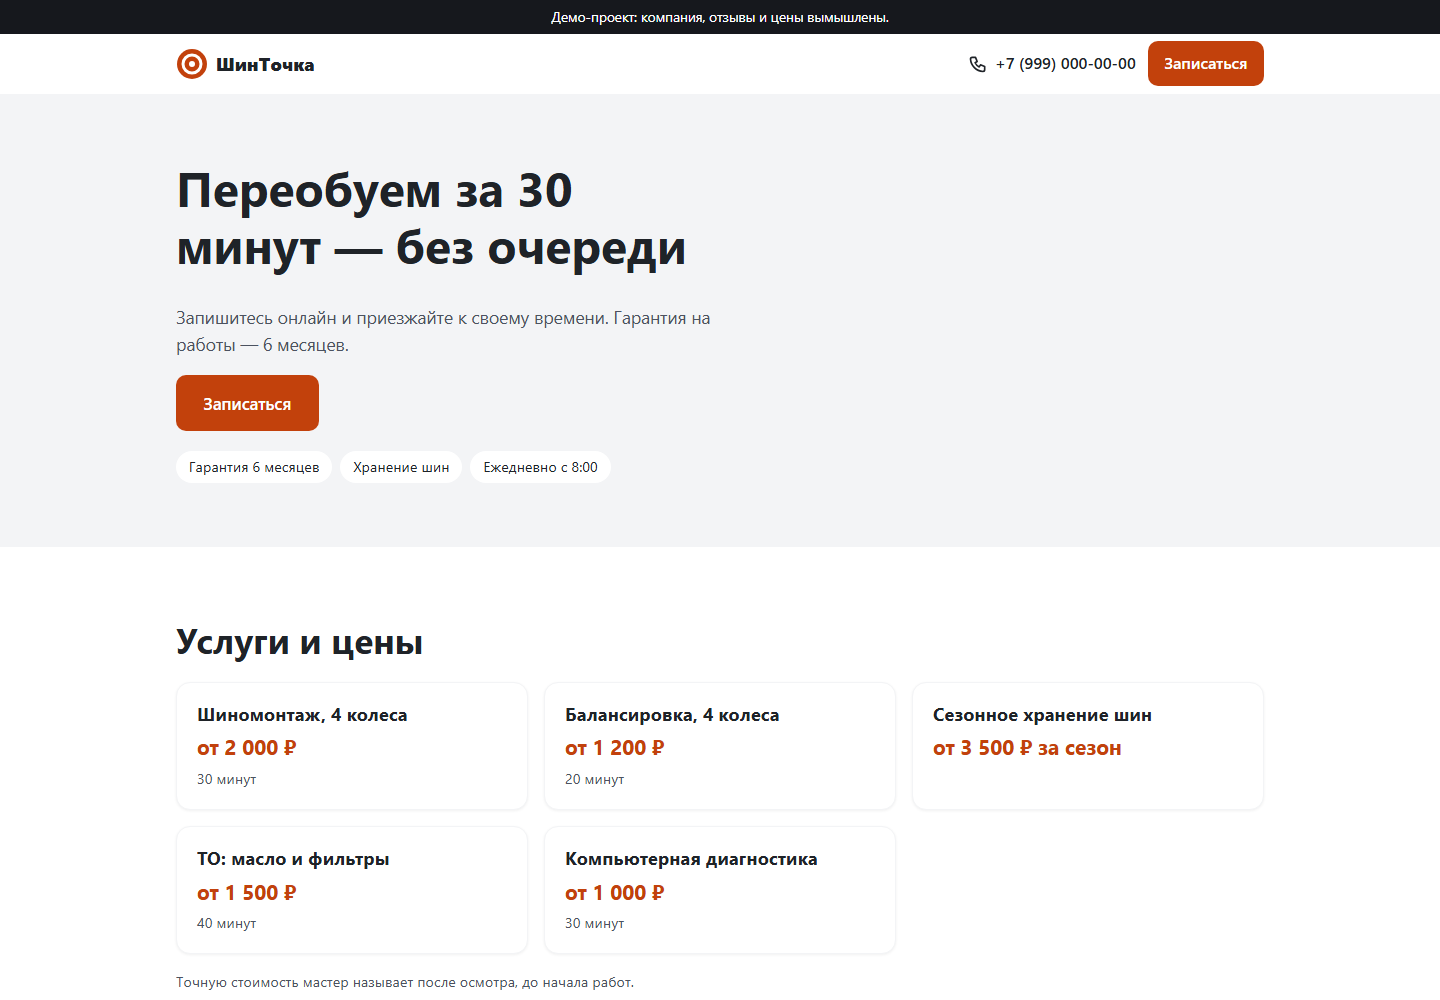
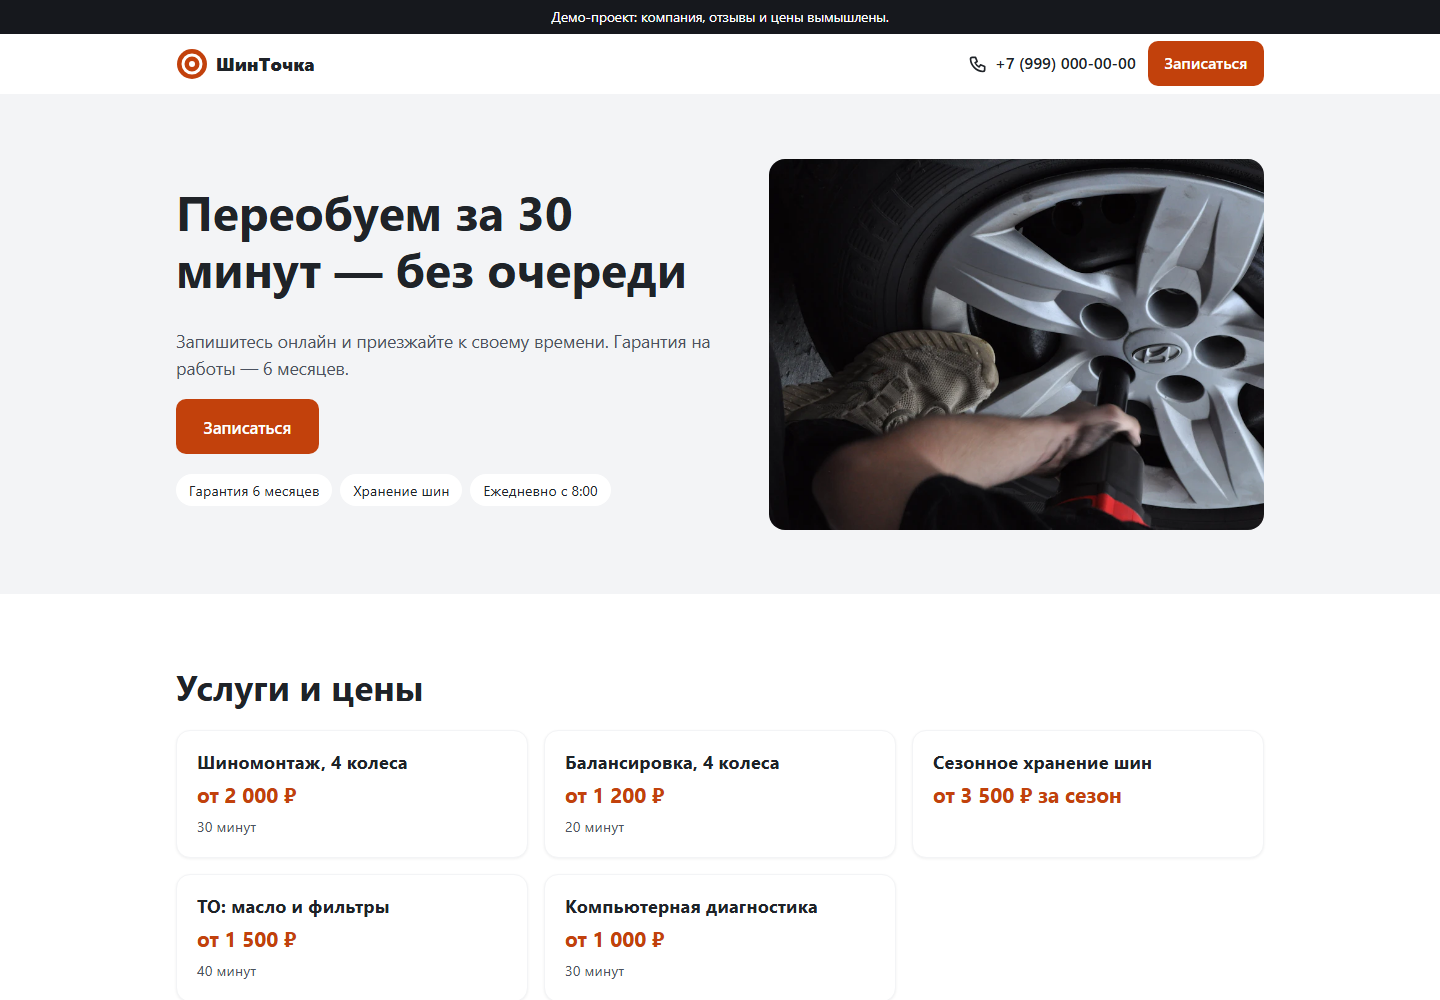
Фото на первом экране и для соцсетей (Unsplash), новые скриншоты

diff --git a/README.md b/README.md
@@ -92,3 +92,7 @@ tests/           тесты
 scripts/         синхронизация списка услуг
 lib/             вспомогательные функции сборки
 ```
+
+## Фото
+
+Фото на первом экране: [Lex](https://unsplash.com/@lex_living) на [Unsplash](https://unsplash.com/photos/mechanic-using-impact-wrench-on-car-wheel-u49lt6K02e0), Unsplash License.
